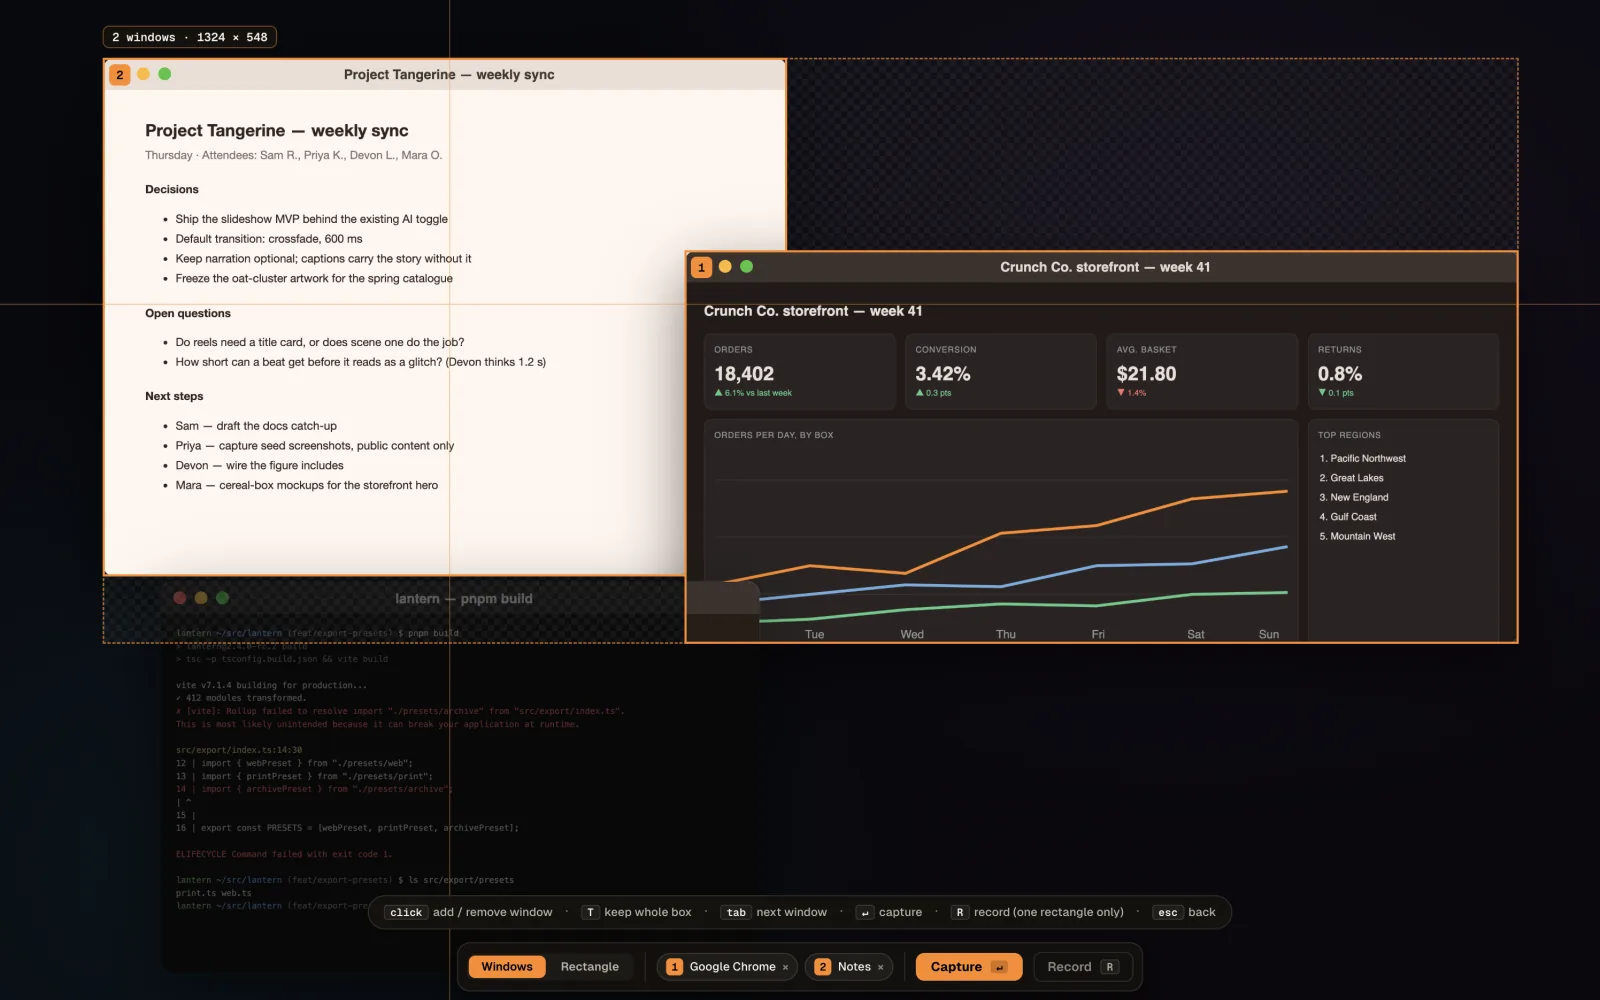
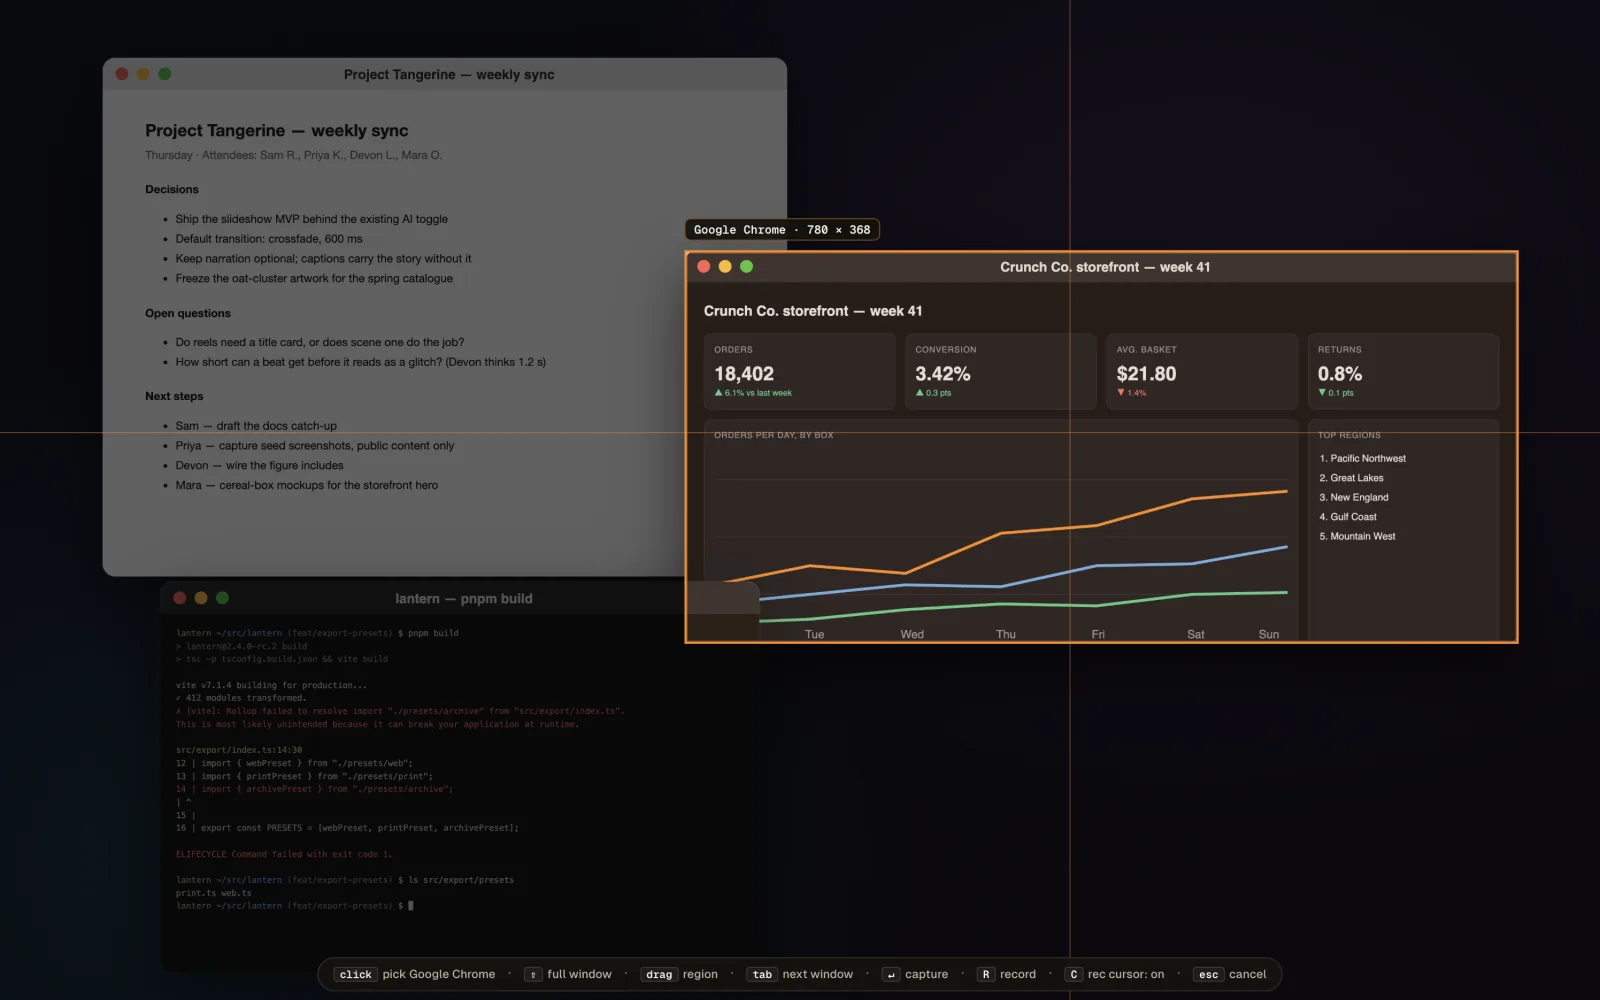
docs: use the single-window hover frame for the capture screenshot

Changed region(s): [[0.0625, 0.031, 0.5625, 0.589], [0.1875, 0.899, 0.7812, 0.992], [0.6562, 0.031, 0.6875, 0.062]]

diff --git a/README.md b/README.md
@@ -70,7 +70,7 @@ later.
 
 <table>
   <tr>
-    <td width="50%"><img src="docs/assets/screenshots/capture-window.webp" width="100%" alt="Quick Capture over a desktop with three overlapping windows. The front window, a task list in a notes app, is outlined in orange with its app name and size; the rest of the screen is dimmed. A hint bar along the bottom lists Enter to snap, R to record, and Escape to cancel."></td>
+    <td width="50%"><img src="docs/assets/screenshots/capture-window.webp" width="100%" alt="Quick Capture over a desktop with three overlapping windows: meeting notes, a terminal with a failed build, and a storefront dashboard in a browser. The pointer is over the dashboard, which is outlined in orange with a label reading Google Chrome · 780 × 368; the windows behind it are dimmed. A hint bar along the bottom reads: click pick Google Chrome · Shift full window · drag region · tab next window · Return capture · R record · C rec cursor: on · esc cancel."></td>
     <td width="50%"><img src="docs/assets/screenshots/editor-draw.webp" width="100%" alt="The editor on a kanban board capture. A hand-drawn orange circle rings one card, a yellow marker stroke covers another, and two green check marks sit in the Done column. The Draw tool's property bar below offers pen, marker, airbrush and eraser, colours and stroke weights."></td>
   </tr>
   <tr>
